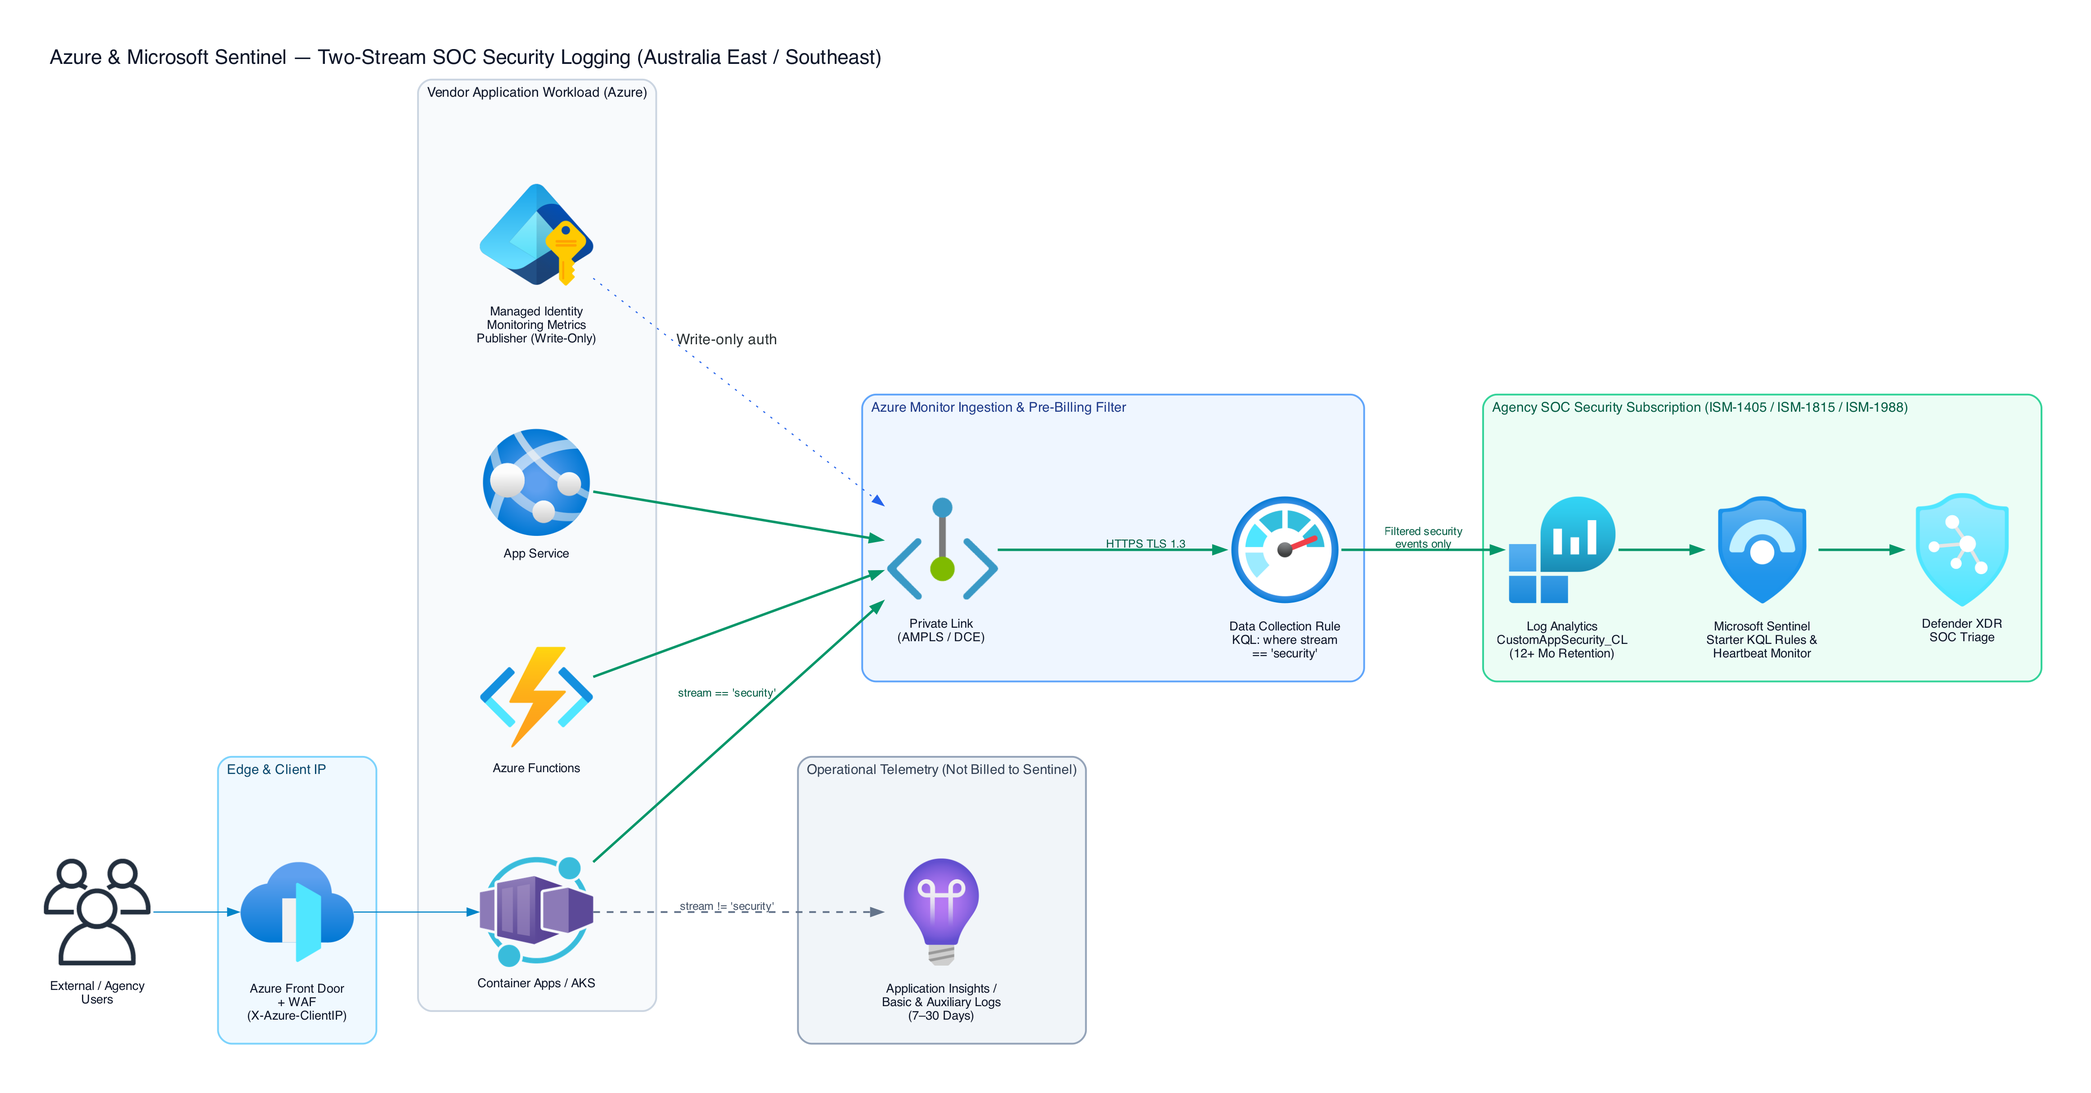
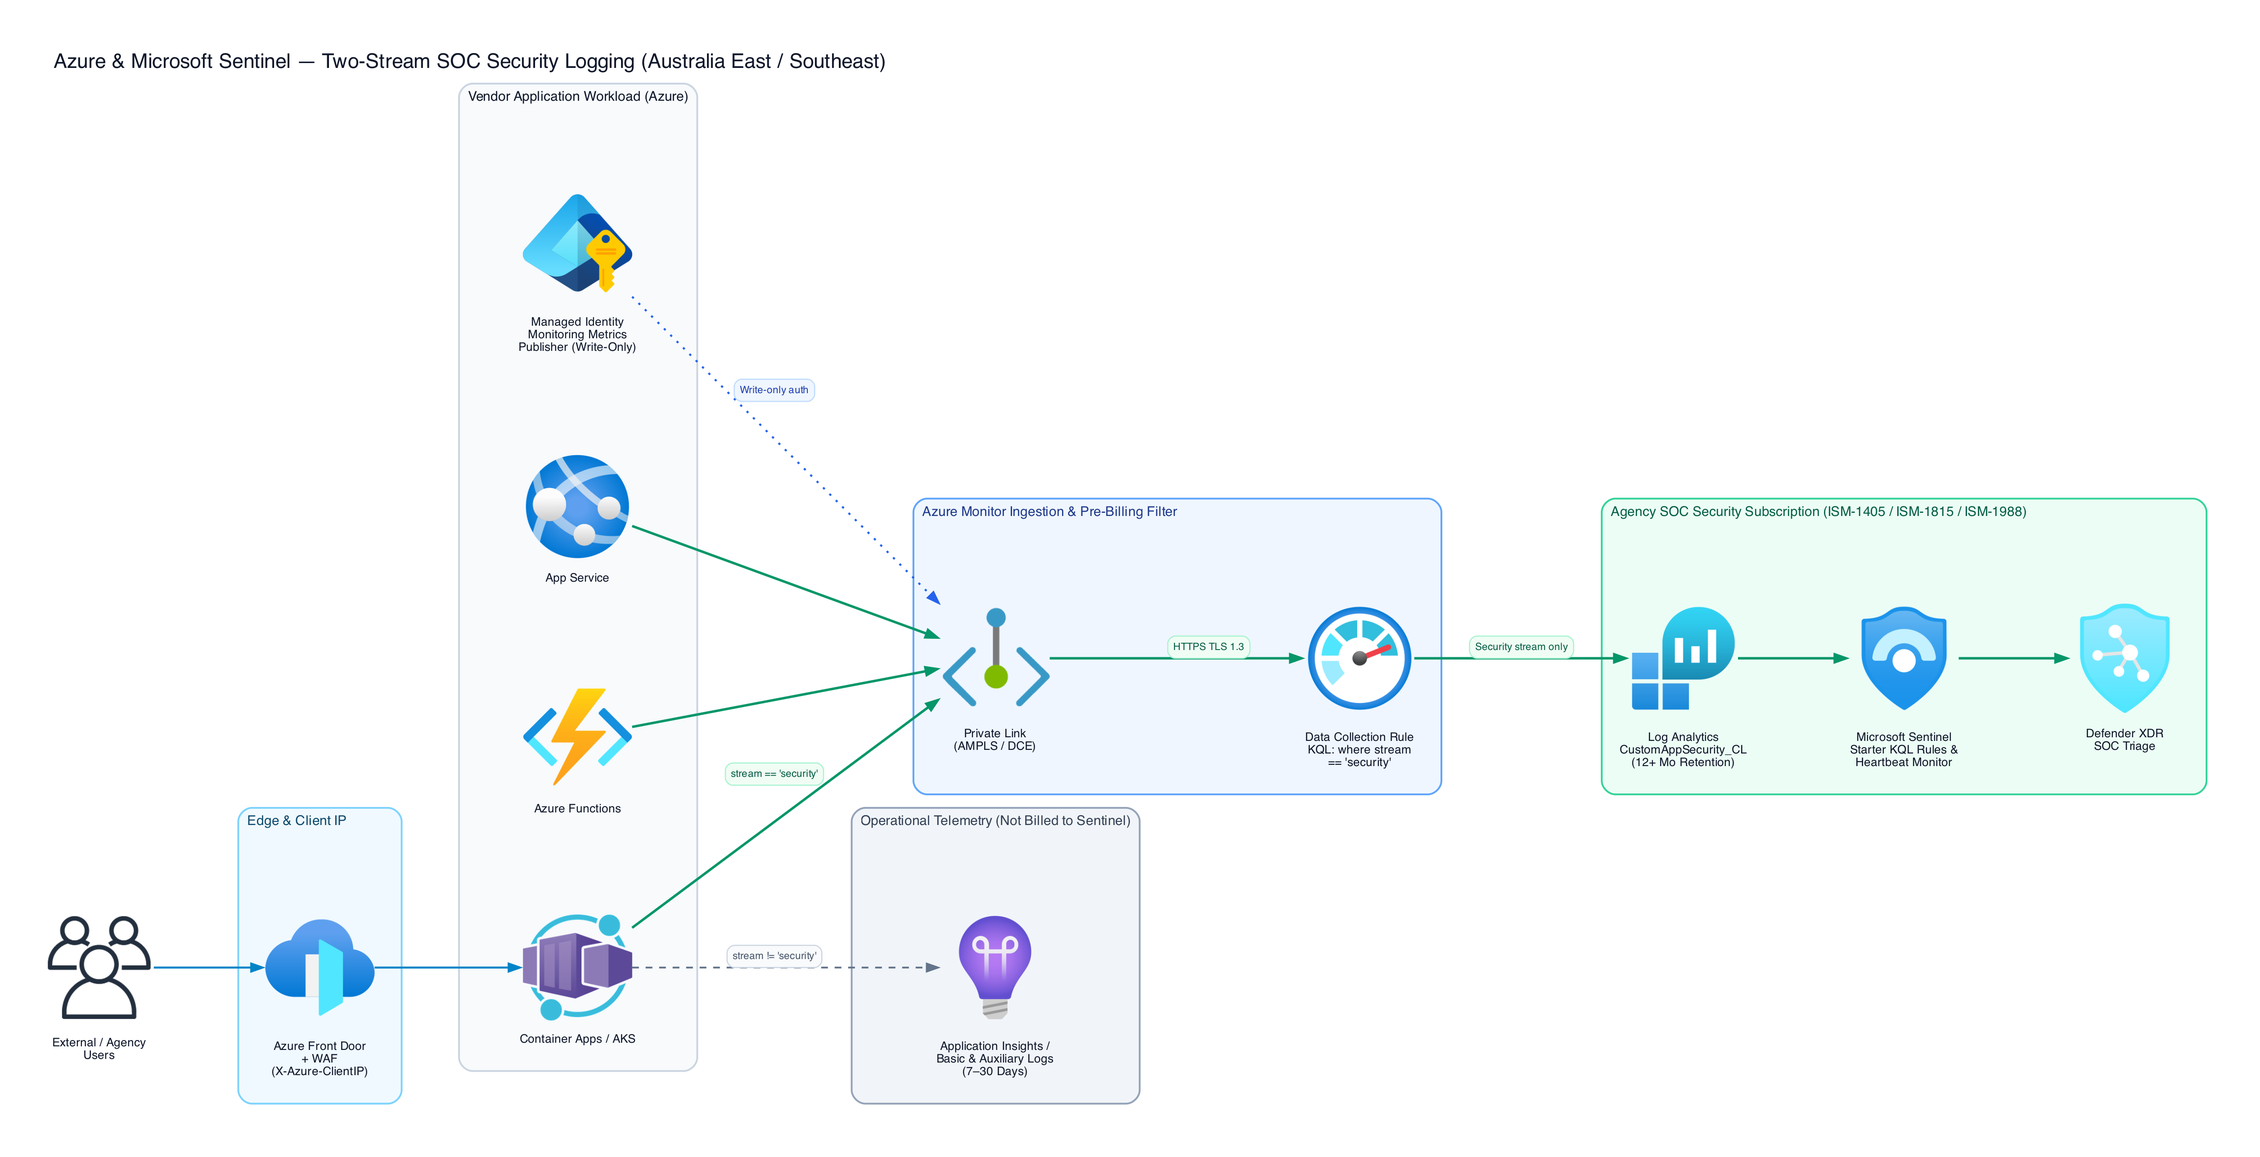
fix: eliminate text/line overlaps across all 8 diagrams with pill edge labels and calibrated node spacing

diff --git a/diagrams/generate_diagrams.py b/diagrams/generate_diagrams.py
@@ -1,8 +1,9 @@
 #!/usr/bin/env python3
 """Generate all architecture & cloud diagrams using the Python `diagrams` library.
 
-Uses one consistent font family (`Helvetica`) and official Azure, AWS, GCP, and
-OSS/On-Prem icons across every diagram.
+Uses one consistent font family (`Helvetica`), generous node bounding boxes so
+arrows never clip multi-line labels, crisp opaque pill edge labels so lines
+never slice through text, and official Azure, AWS, GCP, and OSS icons.
 
 Requirements:
     - Graphviz (`brew install graphviz` or `apt-get install graphviz`)
@@ -11,6 +12,7 @@ Requirements:
 
 from __future__ import annotations
 
+from html import escape
 from pathlib import Path
 
 from diagrams import Cluster, Diagram, Edge
@@ -18,7 +20,6 @@ from diagrams.aws.analytics import KinesisDataFirehose
 from diagrams.aws.compute import ECS, EKS, Lambda
 from diagrams.aws.integration import SQS
 from diagrams.aws.management import CloudwatchLogs
-from diagrams.aws.network import DirectConnect
 from diagrams.aws.security import IAMRole, KMS as AwsKms, SecurityHub, SecurityLake, WAF
 from diagrams.aws.storage import S3
 from diagrams.azure.analytics import EventHubs, LogAnalyticsWorkspaces
@@ -34,7 +35,6 @@ from diagrams.gcp.compute import CloudRun, ComputeEngine, GKE
 from diagrams.gcp.network import Armor
 from diagrams.gcp.operations import Logging as GcpLogging, Monitoring as GcpMonitoring
 from diagrams.gcp.security import Iam as GcpIam, KMS as GcpKms, SecurityCommandCenter
-from diagrams.generic.network import Firewall
 from diagrams.generic.storage import Storage
 from diagrams.onprem.ci import GithubActions
 from diagrams.onprem.client import Users
@@ -51,27 +51,34 @@ BASE_GRAPH_ATTR = {
     "fontsize": "18",
     "fontcolor": "#0f172a",
     "bgcolor": "#ffffff",
-    "pad": "0.5",
-    "nodesep": "0.75",
-    "ranksep": "1.05",
+    "pad": "0.55",
+    "nodesep": "0.95",
+    "ranksep": "1.35",
     "splines": "spline",
     "dpi": "180",
     "labelloc": "t",
     "labeljust": "l",
 }
 
+# Keep icons crisp at 1.35" wide inside a 2.60" tall node box so
+# (2.60 - 1.35) / 2 = 0.625" of clean gap sits below every square icon for
+# 1-to-3 line labels—zero icon-to-text or arrow-to-text collisions.
 BASE_NODE_ATTR = {
     "fontname": FONT,
-    "fontsize": "11",
+    "fontsize": "10.5",
     "fontcolor": "#0f172a",
-    "margin": "0.18,0.14",
+    "height": "2.60",
+    "width": "1.35",
+    "fixedsize": "true",
+    "imagescale": "true",
+    "margin": "0.12,0.10",
 }
 
 BASE_EDGE_ATTR = {
     "fontname": FONT,
     "fontsize": "10",
     "fontcolor": "#334155",
-    "minlen": "1.3",
+    "minlen": "1.5",
 }
 
 
@@ -84,20 +91,46 @@ def cluster_style(bgcolor: str, border: str, fontcolor: str = "#0f172a") -> dict
         "pencolor": border,
         "penwidth": "1.6",
         "style": "rounded,filled",
-        "margin": "20",
+        "margin": "24",
     }
 
 
+def pill_label(text: str, fontcolor: str = "#334155", border: str = "#cbd5e1", bg: str = "#ffffff") -> str:
+    """Wrap an edge label in a crisp opaque Graphviz HTML pill so lines never cut through text."""
+    if not text:
+        return ""
+    lines = "<BR/>".join(escape(line) for line in text.split("\n"))
+    return (
+        f'<<TABLE BORDER="1" CELLBORDER="0" CELLSPACING="0" CELLPADDING="4" '
+        f'BGCOLOR="{bg}" COLOR="{border}" STYLE="ROUNDED">'
+        f'<TR><TD><FONT FACE="{FONT}" POINT-SIZE="9.5" COLOR="{fontcolor}">{lines}</FONT></TD></TR>'
+        f"</TABLE>>"
+    )
+
+
 def sec_edge(label: str = "") -> Edge:
-    return Edge(label=label, color="#059669", penwidth="2.2", fontname=FONT, fontsize="10", fontcolor="#065f46")
+    return Edge(
+        label=pill_label(label, fontcolor="#065f46", border="#a7f3d0", bg="#f0fdf4"),
+        color="#059669",
+        penwidth="2.2",
+    )
 
 
 def ops_edge(label: str = "") -> Edge:
-    return Edge(label=label, color="#64748b", style="dashed", penwidth="1.6", fontname=FONT, fontsize="10", fontcolor="#475569")
+    return Edge(
+        label=pill_label(label, fontcolor="#475569", border="#cbd5e1", bg="#f8fafc"),
+        color="#64748b",
+        style="dashed",
+        penwidth="1.6",
+    )
 
 
-def fed_edge(label: str = "", color: str = "#2563eb") -> Edge:
-    return Edge(label=label, color=color, penwidth="2.0", fontname=FONT, fontsize="10", fontcolor=color)
+def fed_edge(label: str = "", color: str = "#2563eb", border: str = "#bfdbfe", bg: str = "#eff6ff") -> Edge:
+    return Edge(
+        label=pill_label(label, fontcolor=color, border=border, bg=bg),
+        color=color,
+        penwidth="2.0",
+    )
 
 
 def build_two_stream() -> None:
@@ -115,11 +148,11 @@ def build_two_stream() -> None:
 
         with Cluster("1. Custom Vendor Application", graph_attr=cluster_style("#f8fafc", "#cbd5e1")):
             app = AppServices("App Business Logic\n& Auth Middleware")
-            sec_log = SecuritySettings("SecurityLogger Wrapper\nstream='security' | Redact\nCWE-117 Safe | UTC Z")
-            ops_log = AzLogs("Operational Logger\nDEBUG | /healthz | Perf")
+            sec_log = SecuritySettings("SecurityLogger Wrapper\nstream='security'\nRedact & CWE-117 Safe")
+            ops_log = AzLogs("Operational Logger\nDEBUG, /healthz,\nLatency & Traces")
 
         with Cluster("2. Normaliser & Privacy Gateway", graph_attr=cluster_style("#eff6ff", "#93c5fd", "#1e3a8a")):
-            router = FluentBit("Bower (Recommended)\nor Fluent Bit / OTel\nDefault-Deny | AU PII Redact")
+            router = FluentBit("Bower (Recommended)\nor Fluent Bit / OTel\nDefault-Deny | AU Redact")
 
         with Cluster("3A. Government SOC SIEM (ISM-1405 / ISM-1988)", graph_attr=cluster_style("#ecfdf5", "#34d399", "#065f46")):
             siems = [
@@ -130,9 +163,9 @@ def build_two_stream() -> None:
             soc = Users("SOC Analysts &\nSOAR Detections")
 
         with Cluster("3B. Operational Telemetry (Never Sent to SIEM)", graph_attr=cluster_style("#f1f5f9", "#94a3b8", "#334155")):
-            apm = Grafana("APM / Grafana / Data Lake\n7–30 Days | Linked via\ncorrelation_id")
+            apm = Grafana("APM / Grafana / Data Lake\n7–30 Days\nLinked via correlation_id")
 
-        users >> Edge(label="Trusted Proxy IP\n+ correlation_id", color="#334155") >> app
+        users >> Edge(label=pill_label("Trusted Proxy IP\n+ correlation_id"), color="#334155", penwidth="1.8") >> app
         app >> sec_edge("P1/P2 transitions") >> sec_log
         app >> ops_edge("Debug / health") >> ops_log
         sec_log >> sec_edge() >> router
@@ -157,32 +190,38 @@ def build_signal_vs_noise() -> None:
         node_attr=BASE_NODE_ATTR,
         edge_attr=BASE_EDGE_ATTR,
     ):
-        raw = AppServices("100% Raw App Activity\nHTTP, SQL, Auth, Admin,\nHealth Probes, Assets")
+        raw = AppServices("100% Raw App Activity\nHTTP, SQL, Auth, Admin,\nHealth Probes & Assets")
 
         with Cluster("Diverted to APM / Ops (~90–95% Volume)", graph_attr=cluster_style("#fef2f2", "#fca5a5", "#991b1b")):
             dropped = Grafana("Never Send to SIEM\n/healthz, .js/.css, DEBUG,\nPer-Request Valid JWTs")
 
         with Cluster("Security Stream Pipeline (stream='security')", graph_attr=cluster_style("#eff6ff", "#93c5fd", "#1e3a8a")):
-            candidates = FluentBit("5–10% Security Transitions\nAuthn, MFA, Authz 403,\nPrivs, Exports, Config")
-            hygiene = SecuritySettings("Hygiene & Flood Gate\nRedact Secrets/PII\nStrip CWE-117 | Dedupe")
+            candidates = FluentBit("5–10% Security Events\nAuthn, MFA, Authz 403,\nPrivs, Exports & Config")
+            hygiene = SecuritySettings("Hygiene & Flood Gate\nRedact Secrets/PII\nCWE-117 Safe | Dedupe")
 
         with Cluster("High-Value SOC Signal (1–3% Volume)", graph_attr=cluster_style("#ecfdf5", "#34d399", "#065f46")):
             siem = AzureSentinel("SIEM-Ready NDJSON\nScore >= 90/100\nP95 < 2 KB | 0 Leaks")
 
-        raw >> Edge(label="Drop ~90–95%\n(Saves SIEM $$)", color="#dc2626", style="dashed", penwidth="1.8", fontcolor="#991b1b") >> dropped
+        raw >> Edge(
+            label=pill_label("Drop ~90–95%\n(Saves SIEM $$)", fontcolor="#991b1b", border="#fca5a5", bg="#fef2f2"),
+            color="#dc2626",
+            style="dashed",
+            penwidth="1.8",
+        ) >> dropped
         raw >> sec_edge("Keep transitions") >> candidates
         candidates >> fed_edge("Sanitize & cap") >> hygiene
         hygiene >> sec_edge("100% schema valid") >> siem
 
 
 def build_vendor_lifecycle() -> None:
+    graph_attr = {**BASE_GRAPH_ATTR, "ranksep": "1.0"}
     with Diagram(
         "Low-Effort Vendor-to-SOC Lifecycle (Human + AI Coding Agent Workflow)",
         filename=str(OUT_DIR / "vendor-to-soc-lifecycle"),
         outformat="png",
         show=False,
         direction="LR",
-        graph_attr=BASE_GRAPH_ATTR,
+        graph_attr=graph_attr,
         node_attr=BASE_NODE_ATTR,
         edge_attr=BASE_EDGE_ATTR,
     ):
@@ -192,7 +231,7 @@ def build_vendor_lifecycle() -> None:
             step3 = SecuritySettings("3. Implement\nsoc-logging-implement\nTS / Py / C# / Go")
 
         with Cluster("Automated CI Quality Gate", graph_attr=cluster_style("#fefce8", "#fcd34d", "#854d0e")):
-            step4 = GithubActions("4. Verify in CI\nvalidate_logs.py --strict\nscore >= 90/100")
+            step4 = GithubActions("4. Verify in CI\nvalidate_logs.py --strict\nScore >= 90/100")
 
         with Cluster("Government SOC Onboarding", graph_attr=cluster_style("#ecfdf5", "#34d399", "#065f46")):
             step5 = FluentBit("5. SOC Handoff Pack\ngenerate_soc_handoff.py\nCatalog + KQL/Sigma")
@@ -235,14 +274,14 @@ def build_azure_diagram() -> None:
         with Cluster("Operational Telemetry (Not Billed to Sentinel)", graph_attr=cluster_style("#f1f5f9", "#94a3b8", "#334155")):
             appinsights = ApplicationInsights("Application Insights /\nBasic & Auxiliary Logs\n(7–30 Days)")
 
-        client >> Edge(color="#0284c7") >> fd >> Edge(color="#0284c7") >> aks
+        client >> Edge(color="#0284c7", penwidth="1.8") >> fd >> Edge(color="#0284c7", penwidth="1.8") >> aks
         app_svc >> sec_edge() >> priv
         aks >> sec_edge("stream == 'security'") >> priv
         funcs >> sec_edge() >> priv
-        mi >> Edge(label="Write-only auth", color="#2563eb", style="dotted") >> priv
+        mi >> Edge(label=pill_label("Write-only auth", "#1e40af", "#bfdbfe", "#eff6ff"), color="#2563eb", style="dotted", penwidth="1.8") >> priv
         aks >> ops_edge("stream != 'security'") >> appinsights
         priv >> sec_edge("HTTPS TLS 1.3") >> dcr
-        dcr >> sec_edge("Filtered security\nevents only") >> law
+        dcr >> sec_edge("Security stream only") >> law
         law >> sec_edge() >> sentinel >> sec_edge() >> defender
 
 
@@ -268,26 +307,32 @@ def build_aws_diagram() -> None:
             lmb = Lambda("AWS Lambda\n(JSON stdout)")
             cw = CloudwatchLogs("CloudWatch Logs\nSub Filter:\n$.stream='security'")
             role = IAMRole("IAM Task Role / IRSA\nWrite-Only PutRecord")
-            firehose = KinesisDataFirehose("Amazon Data\nFirehose\n(OCSF / NDJSON)")
+            firehose = KinesisDataFirehose("Amazon Data Firehose\n(OCSF / NDJSON)")
 
         with Cluster("Isolated Security / Log Archive Account (ISM-1405 / ISM-1815)", graph_attr=cluster_style("#ecfdf5", "#34d399", "#065f46")):
             kms = AwsKms("KMS CMK\nEncryption")
             s3 = S3("S3 Archive\nObject Lock WORM\n(12+ Mo Retention)")
-            seclake = SecurityLake("Amazon Security\nLake (OCSF)")
+            seclake = SecurityLake("Amazon Security Lake\n(OCSF)")
             sechub = SecurityHub("SOC SIEM / OpenSearch\n& Security Hub")
 
         with Cluster("Operational Logs (Short Retention)", graph_attr=cluster_style("#f1f5f9", "#94a3b8", "#334155")):
             ops_cw = CloudwatchLogs("CloudWatch Ops\n14–30 Days\n(Debug / Health)")
 
-        client >> Edge(color="#ea580c") >> edge_waf >> Edge(color="#ea580c") >> ecs
+        client >> Edge(color="#ea580c", penwidth="1.8") >> edge_waf >> Edge(color="#ea580c", penwidth="1.8") >> ecs
         ecs >> sec_edge("FireLens direct") >> firehose
         eks >> sec_edge("stream='security'") >> firehose
         lmb >> sec_edge() >> cw
         cw >> sec_edge("$.stream='security'") >> firehose
         cw >> ops_edge("Ops / debug only") >> ops_cw
-        role >> Edge(label="Write-only", style="dotted", color="#2563eb") >> firehose
-        firehose >> sec_edge("Cross-account\nwrite-only") >> s3
-        kms >> Edge(style="dotted", color="#059669") >> s3
+        role >> Edge(label=pill_label("Write-only", "#1e40af", "#bfdbfe", "#eff6ff"), style="dotted", color="#2563eb", penwidth="1.8") >> firehose
+        firehose >> Edge(
+            label=pill_label("Cross-account\nwrite-only", "#065f46", "#a7f3d0", "#f0fdf4"),
+            color="#059669",
+            penwidth="2.2",
+            tailport="e",
+            headport="n",
+        ) >> s3
+        kms >> Edge(style="dotted", color="#059669", penwidth="1.8") >> s3
         s3 >> sec_edge() >> seclake >> sec_edge() >> sechub
 
 
@@ -324,21 +369,21 @@ def build_gcp_diagram() -> None:
         with Cluster("Operational Telemetry", graph_attr=cluster_style("#f1f5f9", "#94a3b8", "#334155")):
             ops_mon = GcpMonitoring("_Default Bucket (30d)\n+ Cloud Monitoring\n(/healthz excluded)")
 
-        client >> Edge(color="#2563eb") >> armor >> Edge(color="#2563eb") >> crun
+        client >> Edge(color="#2563eb", penwidth="1.8") >> armor >> Edge(color="#2563eb", penwidth="1.8") >> crun
         crun >> sec_edge() >> router
         gke >> sec_edge() >> router
         gce >> sec_edge() >> router
-        sa >> Edge(label="Write-only", style="dotted", color="#2563eb") >> router
+        sa >> Edge(label=pill_label("Write-only", "#1e40af", "#bfdbfe", "#eff6ff"), style="dotted", color="#2563eb", penwidth="1.8") >> router
         router >> sec_edge("jsonPayload.stream\n== 'security'") >> pubsub
         router >> sec_edge("Immutable archive") >> bucket
-        kms >> Edge(style="dotted", color="#059669") >> bucket
+        kms >> Edge(style="dotted", color="#059669", penwidth="1.8") >> bucket
         router >> ops_edge("Ops / non-security") >> ops_mon
         pubsub >> sec_edge() >> secops
         pubsub >> fed_edge("Optional hunt export") >> bq
 
 
 def build_cross_cloud_federation() -> None:
-    graph_attr = {**BASE_GRAPH_ATTR, "ranksep": "1.35", "nodesep": "0.85"}
+    graph_attr = {**BASE_GRAPH_ATTR, "ranksep": "1.65", "nodesep": "1.05"}
     with Diagram(
         "Cross-Cloud & Hybrid Log Federation (Zero Static Keys — Filter stream='security' Before Egress)",
         filename=str(OUT_DIR / "cross-cloud-log-federation"),
@@ -375,28 +420,28 @@ def build_cross_cloud_federation() -> None:
         az_dcr >> Edge(color="#0284c7", penwidth="2.0") >> az_eh
         onprem_fb >> Edge(color="#475569", penwidth="2.0") >> link
 
-        # Clean federation paths with zero static secrets
         aws_s3_sqs >> sec_edge("OIDC S3/SQS CCF") >> t_sentinel
-        aws_s3_sqs >> fed_edge("AssumeRole S3 Feed", "#2563eb") >> t_secops
+        aws_s3_sqs >> fed_edge("AssumeRole S3 Feed", "#1d4ed8", "#bfdbfe", "#eff6ff") >> t_secops
 
         gcp_ps >> sec_edge("WIF Pub/Sub CCF") >> t_sentinel
-        gcp_ps >> fed_edge("OIDC -> Firehose", "#ea580c") >> t_seclake
+        gcp_ps >> fed_edge("OIDC -> Firehose", "#c2410c", "#fed7aa", "#fff7ed") >> t_seclake
 
-        az_eh >> fed_edge("Native EH Feed", "#2563eb") >> t_secops
-        az_eh >> fed_edge("STS WIF -> Firehose", "#ea580c") >> t_seclake
+        az_eh >> fed_edge("Native EH Feed", "#1d4ed8", "#bfdbfe", "#eff6ff") >> t_secops
+        az_eh >> fed_edge("STS WIF -> Firehose", "#c2410c", "#fed7aa", "#fff7ed") >> t_seclake
 
         link >> sec_edge("Private Link / TLS 1.3") >> t_sentinel
         link >> ops_edge("Private Link") >> t_seclake
 
 
 def build_bower_diagram() -> None:
+    graph_attr = {**BASE_GRAPH_ATTR, "ranksep": "1.55", "nodesep": "1.0"}
     with Diagram(
         "Bower Open-Source Privacy Gateway & Normaliser (Collect -> Select -> Arrange -> Deliver -> Prove)",
         filename=str(OUT_DIR / "bower-privacy-gateway"),
         outformat="png",
         show=False,
         direction="LR",
-        graph_attr=BASE_GRAPH_ATTR,
+        graph_attr=graph_attr,
         node_attr=BASE_NODE_ATTR,
         edge_attr=BASE_EDGE_ATTR,
     ):
@@ -407,9 +452,9 @@ def build_bower_diagram() -> None:
             src_gcp = PubSub("GCP Security Signal\nSCC / Admin Audit\n(WIF — Key Files Refused)")
 
         with Cluster("2. Select & Arrange (Host-Side Before Egress)", graph_attr=cluster_style("#eff6ff", "#60a5fa", "#1e3a8a")):
-            privacy = SecuritySettings("AU Privacy & Secret Engine\nTFN, Medicare, IHI, ABN, CRN\nJWT/Keys -> Quarantine on Fail")
-            policy = FluentBit("Default-Deny Signed Pack\nSchema + Value Policy\nFlood Suppression")
-            queue = Storage("SQLite WAL Queue\nHash-Chained Tamper Ledger\nDead-Letter & Replay")
+            privacy = SecuritySettings("AU Privacy Engine\nTFN, Medicare, IHI,\nABN, CRN & Secrets")
+            policy = FluentBit("Default-Deny Pack\nSchema + Value Policy\nFlood Suppression")
+            queue = Storage("SQLite WAL Queue\nHash-Chained Ledger\nDead-Letter & Replay")
 
         with Cluster("3. Deliver & Prove (ACSC ISM & Essential Eight)", graph_attr=cluster_style("#ecfdf5", "#34d399", "#065f46")):
             out_sentinel = AzureSentinel("Microsoft Sentinel\nLogs Ingestion API / DCR\nor AMA JSONL Spool")
@@ -417,18 +462,28 @@ def build_bower_diagram() -> None:
             out_hec = Splunk("Splunk HEC /\nHTTP NDJSON")
             prove = Alerting("bower evidence run\nLive Sentinel Canary KQL\nSigned ISM / E8 Bundle")
 
-        src_app >> sec_edge() >> privacy
-        src_sql >> sec_edge() >> privacy
-        src_aws >> fed_edge("bower-cloud", "#ea580c") >> privacy
-        src_gcp >> fed_edge("bower-cloud", "#2563eb") >> privacy
+        src_app >> Edge(color="#059669", penwidth="2.2", headport="w") >> privacy
+        src_sql >> Edge(color="#059669", penwidth="2.2", headport="w") >> privacy
+        src_aws >> Edge(
+            label=pill_label("bower-cloud", "#c2410c", "#fed7aa", "#fff7ed"),
+            color="#c2410c",
+            penwidth="2.0",
+            headport="w",
+        ) >> privacy
+        src_gcp >> Edge(
+            label=pill_label("bower-cloud", "#1d4ed8", "#bfdbfe", "#eff6ff"),
+            color="#1d4ed8",
+            penwidth="2.0",
+            headport="w",
+        ) >> privacy
 
-        privacy >> sec_edge("Redacted + metadata\n(sensitive_data_detected)") >> policy
-        policy >> sec_edge("Approved events only") >> queue
+        privacy >> sec_edge("Redacted +\nsensitive_data_detected") >> policy
+        policy >> sec_edge("Approved events\nonly") >> queue
 
         queue >> sec_edge("DCE / DCR or AMA") >> out_sentinel
-        queue >> fed_edge("BOWER_OUTPUT=s3", "#ea580c") >> out_s3
+        queue >> fed_edge("BOWER_OUTPUT=s3", "#c2410c", "#fed7aa", "#fff7ed") >> out_s3
         queue >> ops_edge("BOWER_OUTPUT=http") >> out_hec
-        out_sentinel >> sec_edge("Read-only KQL proof") >> prove
+        out_sentinel >> sec_edge("Read-only\nKQL proof") >> prove
 
 
 def main() -> int:
